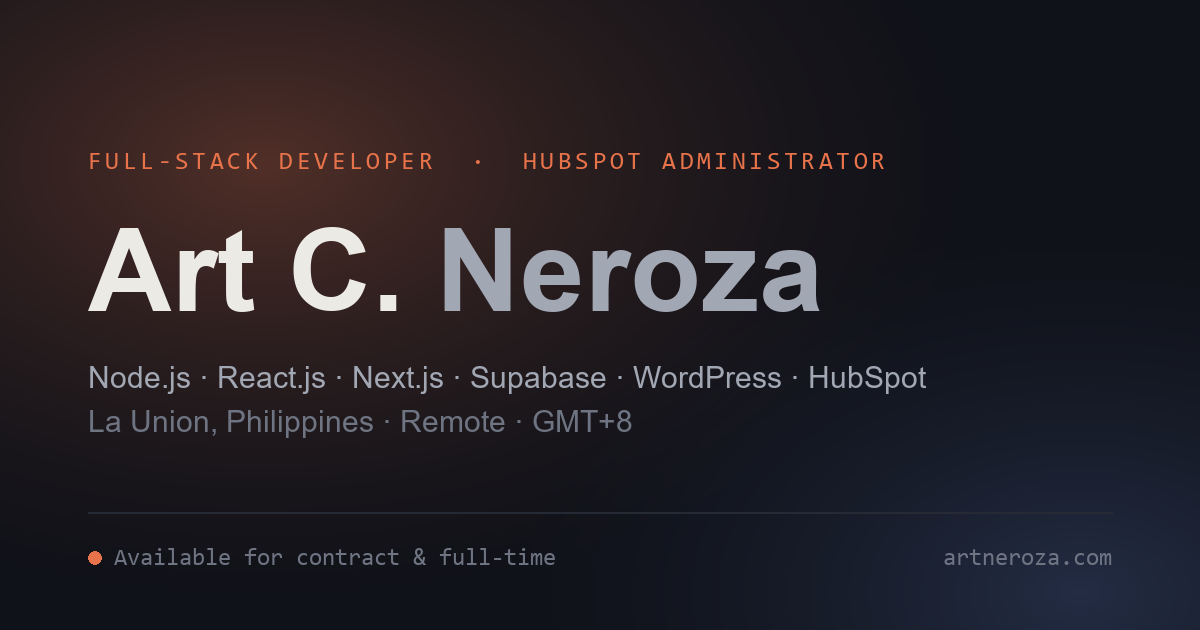
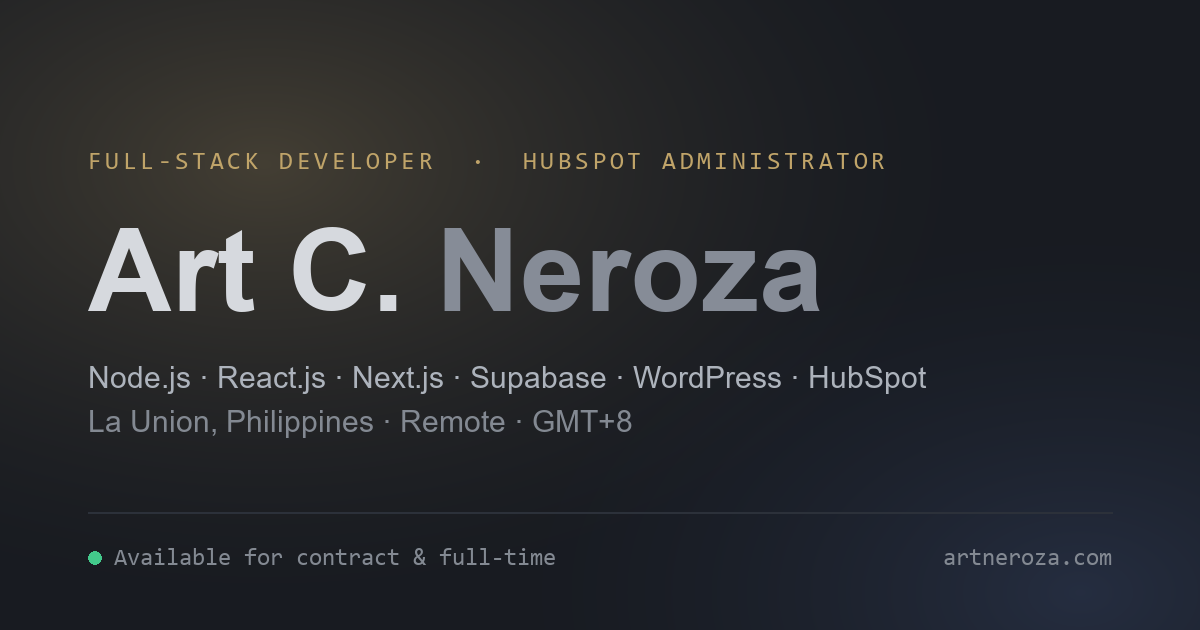
Add a themeable palette system, and rename the widget to Kafra Copilot
Appearance is now two independent axes rather than a single theme:
data-theme (light | dark) and data-accent (amber, moss, oxblood, dusk,
petrol, sea glass), with data-grounds derived from the accent — each accent
was designed against either the standard or softened ground set. That is
four ground blocks and twelve one-line accent rules instead of twelve full
palettes. accent-soft, accent-dash, surface-hi, line-hi and the background
haze are derived with color-mix from --accent and --ink, so every accent
gets correct hover, underline and haze values without being enumerated.

Light + amber is the default, expressed in the bare :root rather than only
in script, so a visitor with JavaScript disabled gets the intended default
instead of a fallback. The pre-paint script applies a stored preference
before first paint, so a returning visitor never sees the wrong palette.

Five values differ from the source spec by the minimum needed to clear
WCAG AA on the card background: sea glass and both light muted greys were
genuinely below (3.44-3.86), and light amber and moss missed by a hair.
`faint` fails in all four ground sets and is confined to decoration.

The three mono headings are now genuinely bold: IBM Plex Mono was
self-hosted at 400 and 500 only, so font-weight 700 would have rendered as
synthetic bold on a monospace face at 12px. The real 700 cut is added and
preloaded. og.png is regenerated in amber, and five hardcoded colours that
[…]

diff --git a/src/styles/global.css b/src/styles/global.css
@@ -37,6 +37,14 @@
   unicode-range:U+0000-00FF, U+0131, U+0152-0153, U+02BB-02BC, U+02C6, U+02DA, U+02DC, U+0304, U+0308, U+0329, U+2000-206F, U+20AC, U+2122, U+2191, U+2193, U+2212, U+2215, U+FEFF, U+FFFD;
 }
 @font-face{
+  font-family:'IBM Plex Mono';
+  font-style:normal;
+  font-weight:700;
+  font-display:swap;
+  src:url('../fonts/ibm-plex-mono-latin-700.woff2') format('woff2');
+  unicode-range:U+0000-00FF, U+0131, U+0152-0153, U+02BB-02BC, U+02C6, U+02DA, U+02DC, U+0304, U+0308, U+0329, U+2000-206F, U+20AC, U+2122, U+2191, U+2193, U+2212, U+2215, U+FEFF, U+FFFD;
+}
+@font-face{
   font-family:'IBM Plex Sans';
   font-style:normal;
   font-weight:400;
@@ -54,18 +62,94 @@
 }
 
 /* ---- tokens ------------------------------------------------ */
+/* ============================================================
+   Themes: two axes.
+     data-theme   = light (default) | dark
+     data-accent  = amber (default) | moss | oxblood | dusk | petrol | seaglass
+     data-grounds = softened | standard   (set by JS from the accent)
+   The bare :root is softened light + amber, so a visitor with JS
+   disabled still gets the intended default rather than a fallback.
+   Every pair below clears WCAG AA (4.5:1) on both bg and card;
+   values marked "nudged" differ from the source spec by the minimum
+   needed to reach it.
+   ============================================================ */
+
 :root{
-  --ground:#101219;        /* blue-biased near-black */
-  --surface:#171a23;
-  --surface-hi:#1d2029;
-  --line:#262a35;
-  --line-hi:#3a3f4d;
-  --ink:#eceae5;           /* warm off-white */
-  --ink-mid:#a2a7b4;
-  --ink-dim:#828997;       /* WCAG AA: 4.94:1 on surface, 5.32:1 on ground */
-  --accent:#e8734a;        /* sunset coral */
-  --accent-soft:#f0a184;
-  --go:#43c98b;            /* available-now green */
+  /* softened · light — the default */
+  --ground:#f3efe7;
+  --surface:#eae5db;
+  --line:#dcd6ca;
+  --ink:#2b2d31;
+  --name-2:#5f6469;
+  --ink-mid:#474b51;
+  --ink-dim:#63676c;       /* nudged from #767a7f (3.44 -> 4.54) */
+  --faint:#9b9ea2;         /* decorative only — below AA for text */
+  --go:#177046;
+  --go-rgb:23,112,70;
+  color-scheme:light;
+}
+:root[data-theme="dark"]{
+  /* softened · dark */
+  --ground:#181b21;
+  --surface:#1e2229;
+  --line:#2c313a;
+  --ink:#d6d9de;
+  --name-2:#868c97;
+  --ink-mid:#adb3bc;
+  --ink-dim:#838993;       /* nudged +1 from #828892 for AA on card */
+  --faint:#656b74;
+  --go:#43c98b;
+  --go-rgb:67,201,139;
+  color-scheme:dark;
+}
+:root[data-grounds="standard"]{
+  /* standard · light */
+  --ground:#faf7f5;
+  --surface:#efebe6;
+  --line:#e0dbd5;
+  --ink:#1b1d21;
+  --name-2:#565d69;
+  --ink-mid:#3c4149;
+  --ink-dim:#646b76;       /* nudged from #6f7681 (3.86 -> 4.53) */
+  --faint:#9aa0a9;
+}
+:root[data-grounds="standard"][data-theme="dark"]{
+  /* standard · dark */
+  --ground:#0f1219;
+  --surface:#161a23;
+  --line:#252a36;
+  --ink:#e9eaee;
+  --name-2:#7f8798;
+  --ink-mid:#b9bec9;
+  --ink-dim:#7d8493;
+  --faint:#5a6070;
+}
+
+/* accents — light first (the default), dark overrides after */
+:root,
+:root[data-accent="amber"]    {--accent:#7d6334;}  /* nudged -1 */
+:root[data-accent="moss"]     {--accent:#53751e;}  /* nudged -1 */
+:root[data-accent="oxblood"]  {--accent:#9c2f43;}
+:root[data-accent="dusk"]     {--accent:#4a6285;}
+:root[data-accent="petrol"]   {--accent:#1f5566;}
+:root[data-accent="seaglass"] {--accent:#31716a;}  /* nudged from #3d7d76 */
+
+:root[data-theme="dark"],
+:root[data-theme="dark"][data-accent="amber"]    {--accent:#c0a469;}
+:root[data-theme="dark"][data-accent="moss"]     {--accent:#a8cb6b;}
+:root[data-theme="dark"][data-accent="oxblood"]  {--accent:#ef8092;}
+:root[data-theme="dark"][data-accent="dusk"]     {--accent:#93aac9;}
+:root[data-theme="dark"][data-accent="petrol"]   {--accent:#79b6c9;}
+:root[data-theme="dark"][data-accent="seaglass"] {--accent:#7fb6ae;}
+
+/* derived — resolve at use time, so they follow whatever --accent is */
+:root{
+  --surface-hi:color-mix(in srgb, var(--surface) 88%, var(--ink));
+  --line-hi:color-mix(in srgb, var(--line) 68%, var(--ink));
+  --accent-soft:color-mix(in srgb, var(--accent) 74%, var(--ink));
+  --accent-dash:color-mix(in srgb, var(--accent) 40%, transparent);
+  --haze-1:color-mix(in srgb, var(--accent) 12%, transparent);
+  --haze-2:color-mix(in srgb, #5a78be 9%, transparent);
 
   --step-0:.875rem;
   --step-1:1rem;
@@ -102,8 +186,8 @@ body::before{
   position:fixed;
   inset:0;
   background:
-    radial-gradient(58rem 32rem at 22% 26%, rgba(232,115,74,.13), transparent 68%),
-    radial-gradient(46rem 28rem at 88% 92%, rgba(90,120,190,.10), transparent 70%);
+    radial-gradient(58rem 32rem at 22% 26%, var(--haze-1), transparent 68%),
+    radial-gradient(46rem 28rem at 88% 92%, var(--haze-2), transparent 70%);
   pointer-events:none;
   z-index:0;
 }
@@ -145,7 +229,7 @@ main{
   margin:0;
   font-family:"IBM Plex Mono",ui-monospace,SFMono-Regular,Menlo,monospace;
   font-size:.72rem;
-  font-weight:500;
+  font-weight:700;
   letter-spacing:.16em;
   text-transform:uppercase;
   color:var(--accent);
@@ -160,7 +244,7 @@ h1{
   letter-spacing:-.035em;
   text-wrap:balance;
 }
-h1 .mid{color:var(--ink-mid);font-weight:600;}
+h1 .mid{color:var(--name-2);font-weight:600;}
 
 .blurb{
   margin:1.15rem 0 0;
@@ -170,7 +254,7 @@ h1 .mid{color:var(--ink-mid);font-weight:600;}
 }
 .blurb strong{color:var(--ink);font-weight:500;}
 
-/* ---- NPC Kafra --------------------------------------------- */
+/* ---- Kafra Copilot ------------------------------------------- */
 .kafra{margin-top:1.1rem;}
 
 .kafra-open{
@@ -179,11 +263,12 @@ h1 .mid{color:var(--ink-mid);font-weight:600;}
   background:none;
   font-family:"IBM Plex Mono",ui-monospace,SFMono-Regular,Menlo,monospace;
   font-size:.75rem;
+  font-weight:700;
   letter-spacing:.08em;
   color:var(--accent);
   cursor:pointer;
-  border-bottom:1px dashed currentColor;
-  transition:color .2s var(--ease);
+  border-bottom:1px dashed var(--accent-dash);
+  transition:color .2s var(--ease), border-color .2s var(--ease);
 }
 .kafra-open:hover{color:var(--accent-soft);}
 .kafra-open:focus-visible{outline:2px solid var(--accent);outline-offset:3px;border-radius:2px;}
@@ -374,7 +459,7 @@ h1 .mid{color:var(--ink-mid);font-weight:600;}
   margin:0;
   font-family:"IBM Plex Mono",ui-monospace,SFMono-Regular,Menlo,monospace;
   font-size:.68rem;
-  font-weight:500;
+  font-weight:700;
   letter-spacing:.16em;
   text-transform:uppercase;
   color:var(--ink-dim);
@@ -425,7 +510,7 @@ h1 .mid{color:var(--ink-mid);font-weight:600;}
   background:transparent;
   color:var(--ink-dim);
 }
-.card--ph .name{color:var(--ink-dim);font-weight:400;}
+.card--ph .name{color:var(--faint);font-weight:400;}
 
 /* ---- footer ------------------------------------------------- */
 .foot{
@@ -521,13 +606,68 @@ h1 .mid{color:var(--ink-mid);font-weight:600;}
 }
 
 @keyframes beacon{
-  0%,100%{box-shadow:0 0 0 3px rgba(67,201,139,.18), 0 0 5px rgba(67,201,139,.45);}
-  50%    {box-shadow:0 0 0 4px rgba(67,201,139,.12), 0 0 13px rgba(67,201,139,.95);}
+  0%,100%{box-shadow:0 0 0 3px rgba(var(--go-rgb),.18), 0 0 5px rgba(var(--go-rgb),.45);}
+  50%    {box-shadow:0 0 0 4px rgba(var(--go-rgb),.12), 0 0 13px rgba(var(--go-rgb),.95);}
 }
 @keyframes ping{
   0%  {transform:scale(1);opacity:.5;}
   70% {transform:scale(3);opacity:0;}
   100%{transform:scale(3);opacity:0;}
+}
+
+/* ---- appearance controls ------------------------------------ */
+.prefs{
+  width:100%;
+  margin-top:1rem;
+  text-align:center;
+}
+.prefs-label{
+  margin:0 0 .5rem;
+  font-family:"IBM Plex Mono",ui-monospace,SFMono-Regular,Menlo,monospace;
+  font-size:.66rem;
+  letter-spacing:.06em;
+  color:var(--ink-dim);
+}
+.prefs-row{
+  display:flex;
+  flex-wrap:wrap;
+  justify-content:center;
+  align-items:center;
+  gap:.35rem;
+}
+.prefs-sep{
+  width:1px;
+  height:1.05rem;
+  background:var(--line-hi);
+  margin:0 .25rem;
+}
+
+/* swatches and theme icons share one outline */
+.prefs-row button{
+  display:grid;
+  place-items:center;
+  width:1.9rem;
+  height:1.9rem;
+  padding:0;
+  border:1px solid var(--line);
+  border-radius:.45rem;
+  background:transparent;
+  color:var(--ink-dim);
+  cursor:pointer;
+  transition:color .2s var(--ease), border-color .2s var(--ease), background .2s var(--ease);
+}
+.prefs-row button:hover{color:var(--accent);border-color:var(--line-hi);}
+.prefs-row button:focus-visible{outline:2px solid var(--accent);outline-offset:2px;}
+.prefs-row button[aria-pressed="true"]{
+  border-color:var(--accent);
+  background:var(--surface);
+}
+.prefs-row button svg{width:.95rem;height:.95rem;display:block;}
+.swatch span{
+  width:.85rem;
+  height:.85rem;
+  border-radius:50%;
+  display:block;
 }
 
 /* ---- entrance ------------------------------------------------ */
@@ -572,5 +712,5 @@ h1 .mid{color:var(--ink-mid);font-weight:600;}
   .cup .steam path{opacity:.8;transform:none;}
   .kafra-panel{transform:none;}
   .kafra-answer{animation:none;}
-  .dot{box-shadow:0 0 0 3px rgba(67,201,139,.18), 0 0 6px rgba(67,201,139,.5);}
+  .dot{box-shadow:0 0 0 3px rgba(var(--go-rgb),.18), 0 0 6px rgba(var(--go-rgb),.5);}
 }
